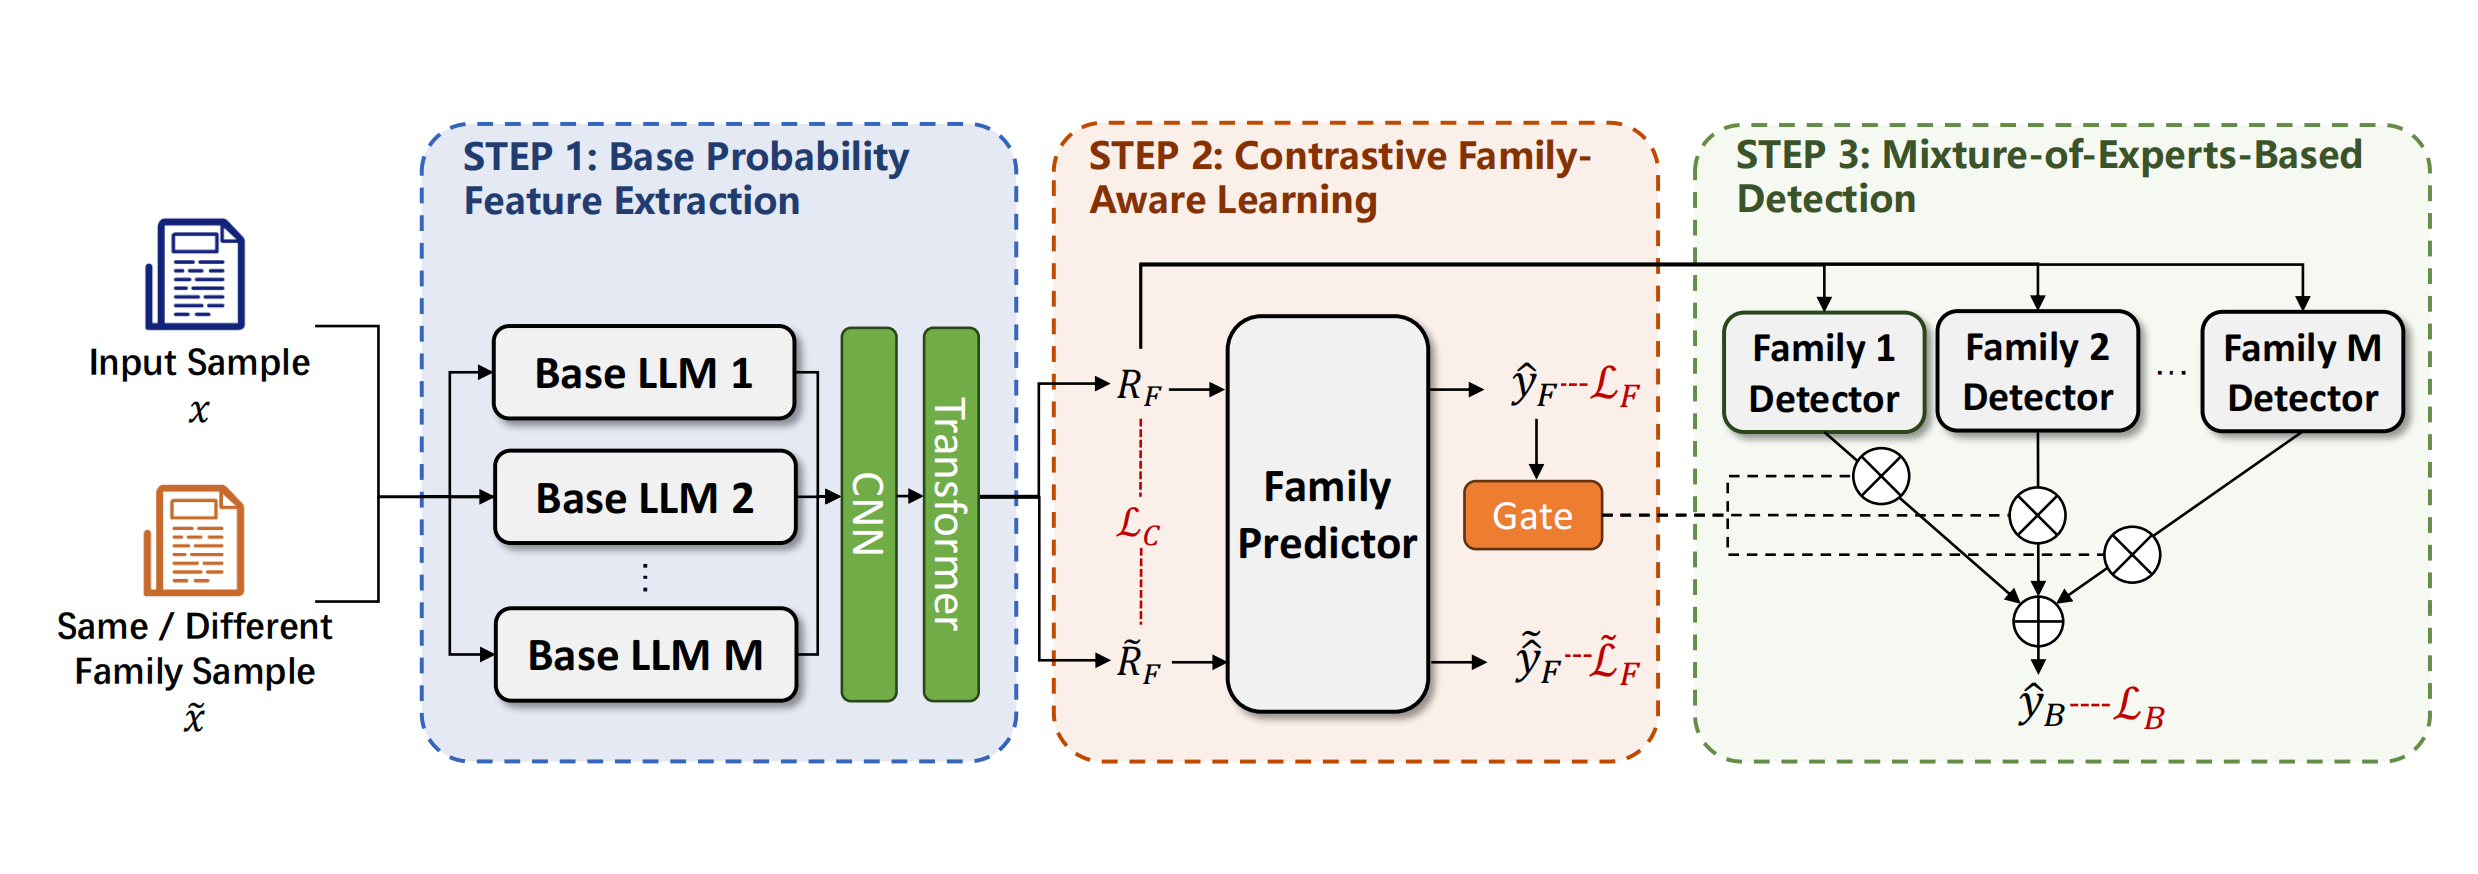
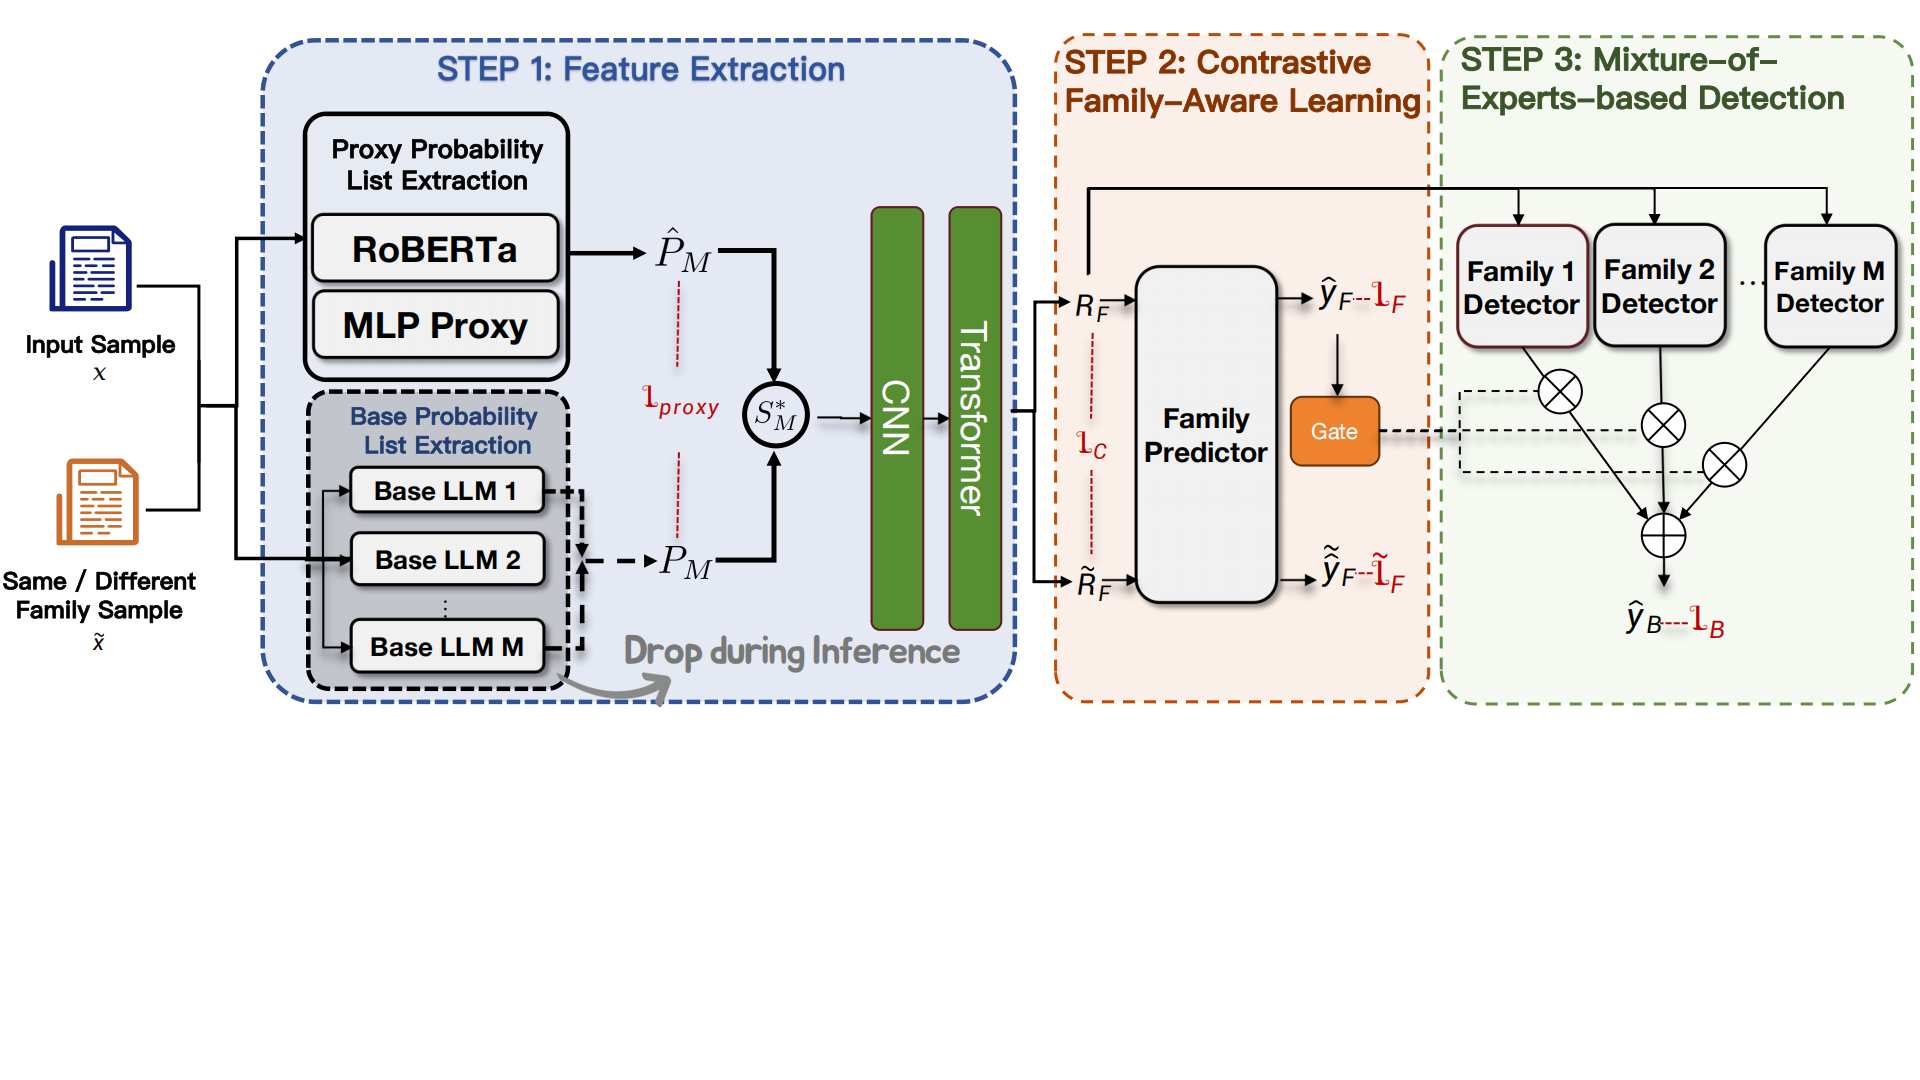
Update README and architecture figure

diff --git a/README.md b/README.md
@@ -2,11 +2,11 @@
 
 With the popularity of large language models (LLMs), undesirable societal problems like misinformation production and academic misconduct have been more severe, making LLM-generated text detection now of unprecedented importance. Though existing methods have made remarkable progress, they mostly consider publicly known LLMs when testing the performance and a new challenge brought by text from privately-tuned LLMs is largely underexplored.
 
-Due to the rapid development of open-source models like LLaMA and Qwen series and efficient LLM training methods, even ordinary users can now easily possess private LLMs by fine-tuning an open-source one with private corpora. This could lead to a significant performance drop of existing detectors in practice, due to their poor capability of capturing the essential LLM traits robust to fine-tuning operations.
+Due to the rapid development of open-source models like the Qwen and LLaMA series, even ordinary users can now easily possess private LLMs by further tuning an open-source one with private corpora. This could lead to a significant performance drop of existing detectors by 41% at most in our preliminary study, due to their poor capability of capturing the essential LLM traits robust to fine-tuning operations.
 
-Our preliminary examination reveals that fine-tuning an LLM with 11M tokens could make a detector's accuracy jump from 100\% to only 59\% at most. To address this issue, we propose **PhantomHunter**, an LLM-generated text detector specialized for detecting text from unseen privately-tuned LLMs, whose family-aware learning framework captures family-level traits shared across the base models and their derivatives, instead of memorizing individual characteristics.
+To address this issue, we propose **PhantomHunter**, an LLM-generated text detector specialized for detecting text from unseen privately-tuned LLMs. Instead of memorizing individual characteristics, PhantomHunter's family-aware learning framework captures family-level traits shared across the base models and their derivatives.
 
-Specifically, PhantomHunter first extracts base model features and enhances the family-shared information using a contrastive family-aware learning module. The enhanced features are then fed into a mixture-of-experts module containing multiple experts for corresponding families for final predictions. Experiments on data from four widely-adopted LLM families (LLaMA, Gemma, Mistral, and Qwen) show PhantomHunter's superiority over 8 baselines and 11 industrial services.
+Specifically, PhantomHunter first extracts base model features and distills them into a lightweight proxy module for deployment efficiency consideration, followed by a contrastive family-aware learning module that enhances the family-shared information. The enhanced features are then fed into a mixture-of-experts module containing multiple experts for corresponding families for final predictions. Experiments on data from four widely-adopted LLM families (LLaMA, Gemma, Mistral, and Qwen) show PhantomHunter's superiority over 9 baselines and 11 industrial services.
 
 ---
 Here is the official implementation of "PhantomHunter: A Multi-Task Framework with Mixture of Experts for Generalized Generated Text Detection".
@@ -26,7 +26,7 @@ PhantomHunter is a unified framework for detecting AI-generated text that levera
 
 ![PhantomHunter Architecture](pic/method.png)
 
-**PhantomHunter** and the training process. Given a text sample $\mathbf{x}$, it **1)** extracts the probability feature from $M$ base models and encode them with CNN and transformer blocks; **2)** predicts the family of $\mathbf{x}$ to determine the family gating weights; and **3)** feeds the representation $\mathbf{R}_{F}$ to a mixture-of-experts network controlled by the gating weights from Step 2 for final prediction of $\mathbf{x}$ being LLM-generated. During training, contrastive learning is applied in each mini-batch to better model family relationships. The red terms are loss functions.
+**PhantomHunter** and the training process. Given a text sample $\mathbf{x}$, it **1)** extracts base probability lists from $M$ base LLMs and distills them into a lightweight RoBERTa-MLP proxy module, so the base LLMs can be dropped during inference; **2)** encodes the proxy probability features with CNN and Transformer blocks and applies contrastive family-aware learning to enhance family-shared information; and **3)** feeds the enhanced representation $\mathbf{R}_{F}$ to a mixture-of-experts network controlled by family gating weights for the final LLM-generated text prediction. The red terms are loss functions.
 
 ## Data
 We simulate two common LLM usage scenarios: **writing** (69,297 arXiv paper abstracts) and **question-answering** (3,062 Q&A pairs from ELI5, finance, and medicine domains). We select four open-source models (LLaMA-2-7B-Chat, Gemma-7B-it, Mistral-7B-Instruct-v0.1, Qwen2.5-7B-Instruct) and fine-tune each with full-parameter and LoRA methods on domain-specific corpora, resulting in 48 derivative models for evaluation. 